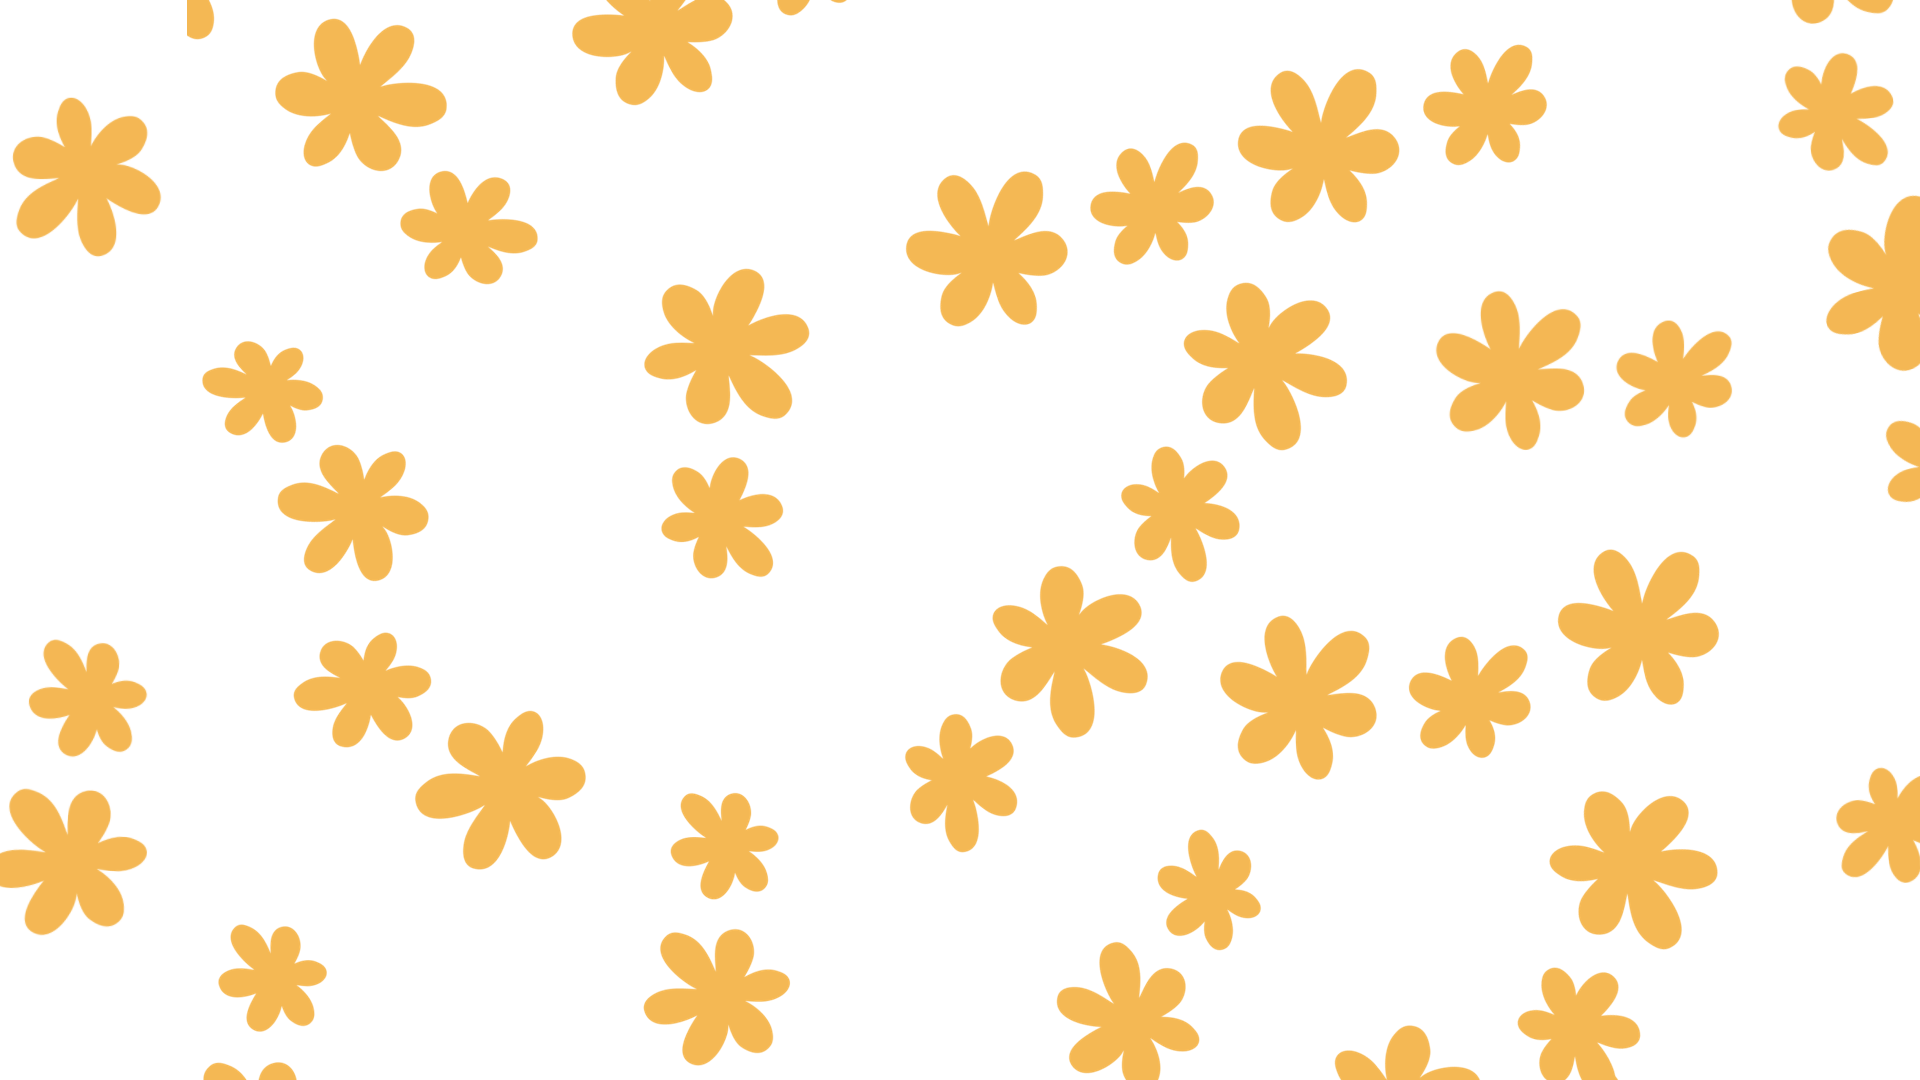
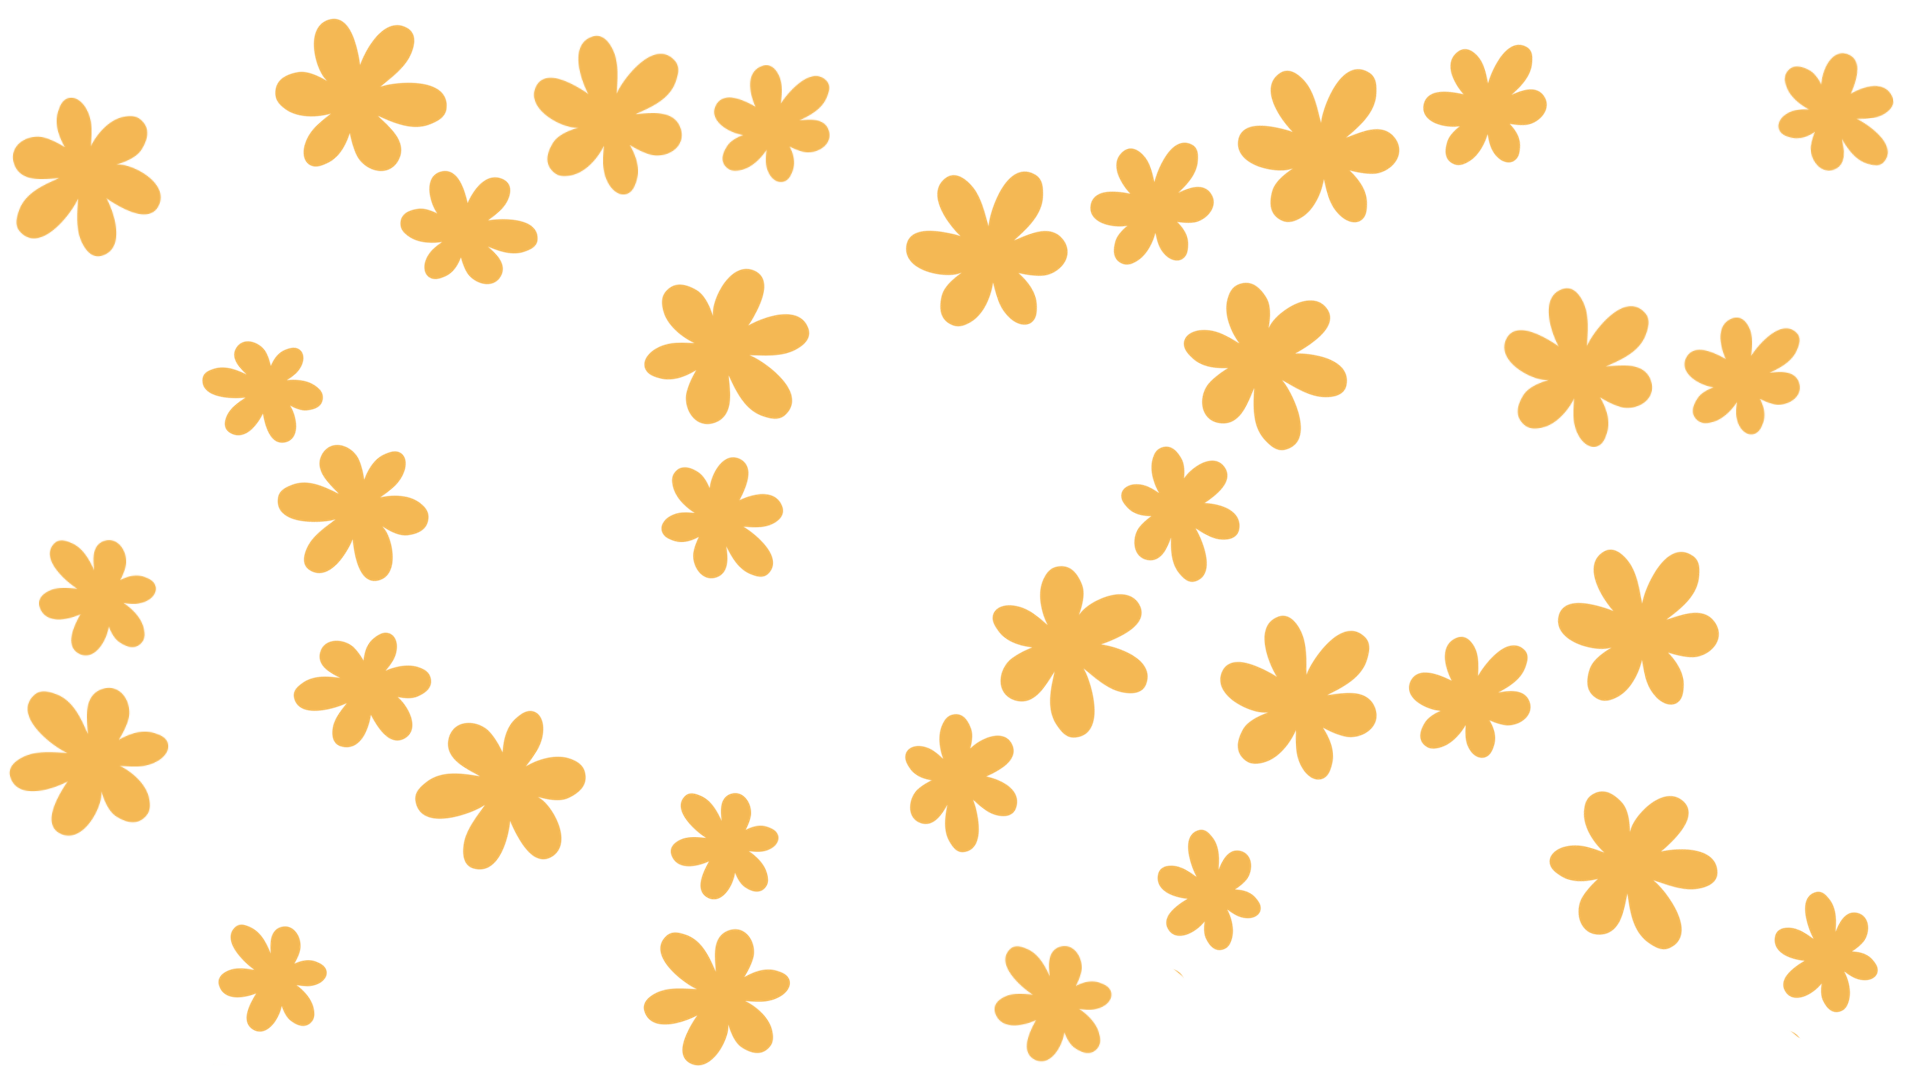
調整金句頁背景圖、吃吃頁星星右邊沒有白邊
金句頁背景圖的花朵換不切邊的

diff --git a/src/App.vue b/src/App.vue
@@ -87,6 +87,7 @@
   </section>
   <!-- 吃吃頁 -->
   <section id="eat-page">
+
     <div class="left-area">
     </div>
     <div class="right-area">
@@ -284,9 +285,11 @@ function eatAgain() {
 }
 
 #eat-page {
-  background-color: map.get($color, perple);
+  // background-color: map.get($color, perple);
   @include bg-color(map-get($color,bg-perple),"/Hina-web/bg-eat.png");
-  
+  @include respond-to(xs) {
+    grid-template-columns: repeat(1, 1fr);
+  }
   .main-area-hander {
     height: 24vh;
     span {
@@ -328,10 +331,11 @@ function eatAgain() {
         }
         @include respond-to(sm) {
           // top: 20px;
-          left: 100px;
+          left: 200px;
         }
         @include respond-to(xs) {
           top: 20px;
+          left: 100px;
         }
         @include respond-to(xxxs) {
           left: 0px;
@@ -359,6 +363,10 @@ function eatAgain() {
         z-index: 5;
 
         @include respond-to(sm) {
+          top: -120px;
+          left: 80px;
+        }
+        @include respond-to(xs) {
           top: -120px;
           left: 8px;
         }
